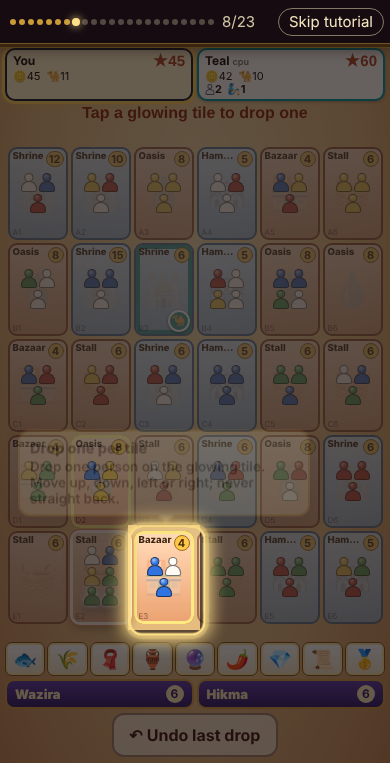
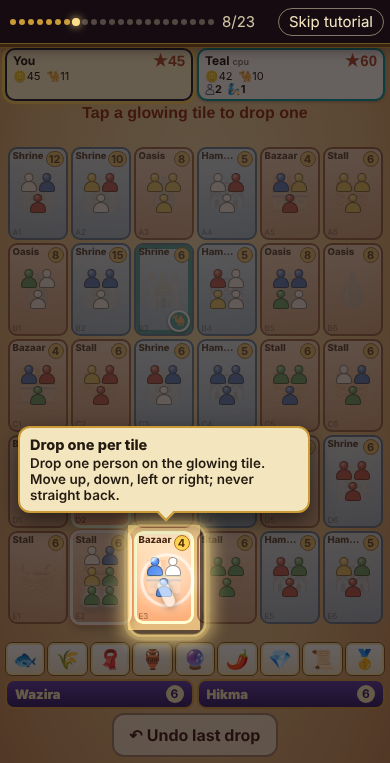
Sands of Qamar tutorial: tutor-test modes, screenshots refreshed

Changed region(s): [[0.0308, 0.5426, 0.8, 0.844]]

diff --git a/games-src/ft/tutor-test.js b/games-src/ft/tutor-test.js
@@ -1,5 +1,5 @@
 // Tutorial test: plays the staged tutorial through the REAL page with touch taps, doing exactly what every step asks.
-//   node tutor-test.js [sizes=390x763,375x553]        Exit code 1 on any problem.
+//   node tutor-test.js [sizes=390x763,375x553] [only=clean,rotate,leave,skip,offer,story]        Exit code 1 on any problem.
 // Runs: a clean run per size; at the first size also a rotation run (portrait -> landscape -> portrait), a "leave and come back" run, a Skip run
 // (a saved game must survive untouched), a fresh-profile Story run (Chapter 0, then "Start chapter 1", then Story goes to the chapter map) and
 // the "New here?" offer when a first-time player taps Play.
@@ -198,7 +198,8 @@ const once=new Set();const guardOnce=id=>{const k=id+'|'+(guardOnce.run||'');if(
 (async()=>{const b=await PW.chromium.launch({args:['--no-sandbox']});
   const jobs=[];for(const [W,H] of SIZES){jobs.push([W,H,'clean']);}
   const [W0,H0]=SIZES[0];jobs.push([W0,H0,'rotate']);jobs.push([W0,H0,'leave']);jobs.push([W0,H0,'skip']);jobs.push([W0,H0,'offer']);jobs.push([W0,H0,'story']);if(SIZES[1])jobs.push([SIZES[1][0],SIZES[1][1],'story']);
-  for(const j of jobs){guardOnce.run=j.join('x');try{await run(b,...j)}catch(e){note(j.join(' '),'CRASH '+String(e.message).split('\n')[0])}}
+  const ONLY=process.argv[3]?process.argv[3].split(','):null;
+  for(const j of jobs){if(ONLY&&!ONLY.includes(j[2]))continue;guardOnce.run=j.join('x');try{await run(b,...j)}catch(e){note(j.join(' '),'CRASH '+String(e.message).split('\n')[0])}}
   await b.close();
   console.log('steps checked',totals.steps,'wrong taps',totals.wrong,'step ids',totals.ids.join(','));
   console.log(probs.length?'PROBLEMS '+probs.length+'\n  '+probs.join('\n  '):'PROBLEMS 0');process.exit(probs.length?1:0)})();
